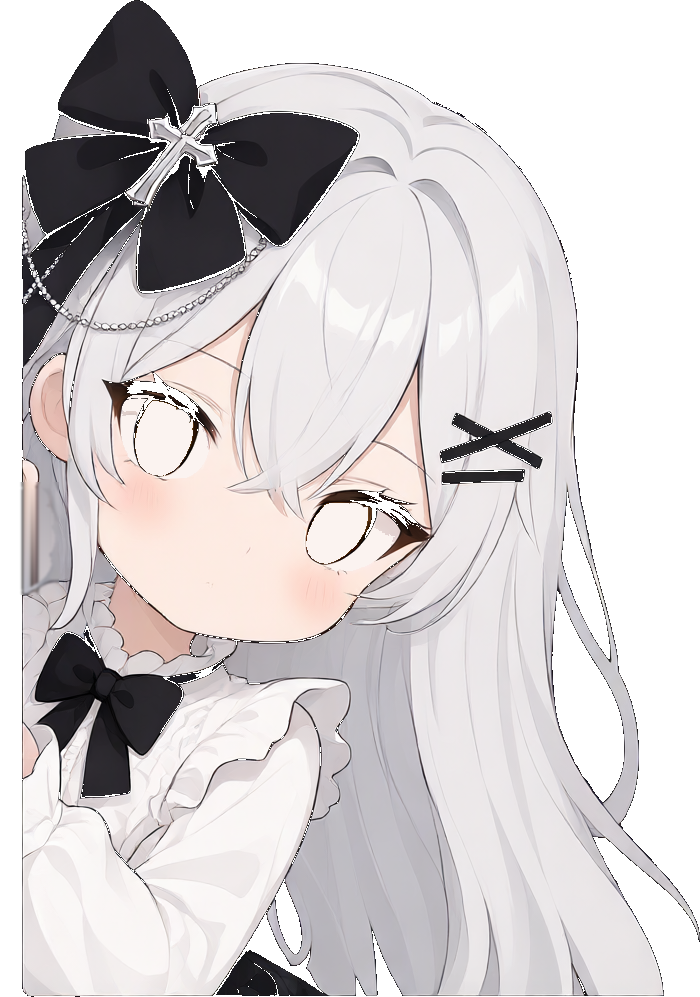
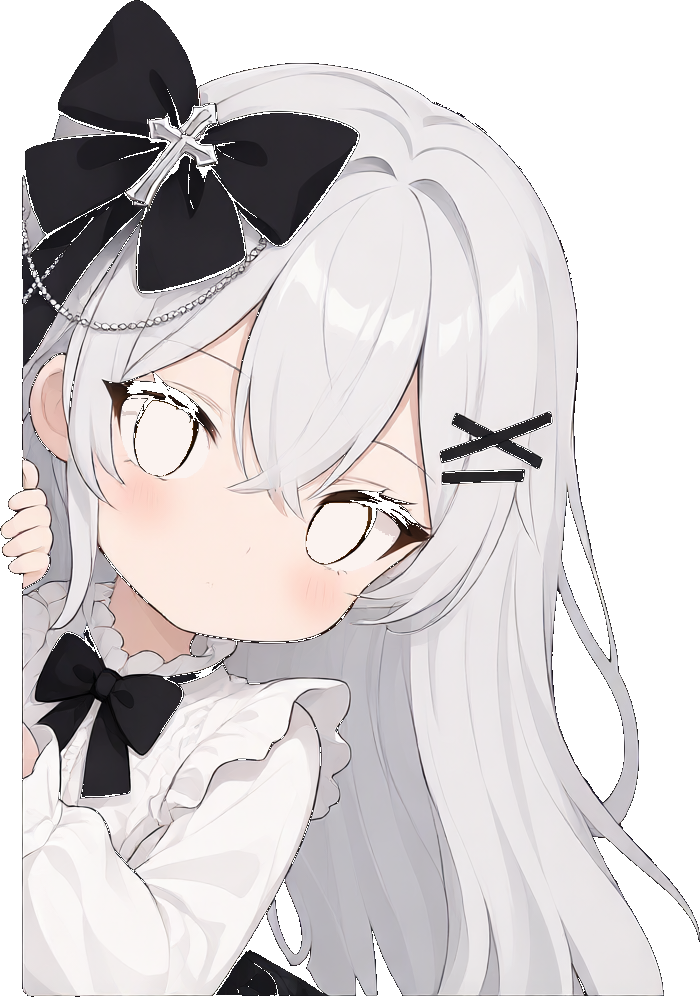
mascot v3: socket-masked iris, static body, bubble-only greeting
- Iris layers now sit inside a fixed wrapper masked by per-eye socket masks
  (oc_socket_l/r.png, generated from the aperture alpha), so the pupil can
  never slide over the lash line - it gets clipped by the eye socket.
- Body no longer tilts/rotates with the cursor; only the irises track it.
- Drop the waving hand + wrist overlay entirely: greeting is now just the
  speech bubble; the base keeps the original crisp gripping fingers.

Changed region(s): [[0.0, 0.4664, 0.09, 0.6219]]

diff --git a/components/FloatingMascot.tsx b/components/FloatingMascot.tsx
@@ -4,13 +4,13 @@ import { useEffect, useState, useRef, useCallback } from "react";
 import Image from "next/image";
 
 /**
- * 屏幕左侧随动 Q 版看板娘（Web 2.5D 切件 Live2D 看板娘组件 v2）
+ * 屏幕左侧 Q 版看板娘（Web 2.5D 切件看板娘组件 v3）
  *
  * 层序（Z 从低到高）：
- *   base2(底图,眼孔填平眼白) < iris_l/r(整眼孔虹膜件,随光标位移) < hand2(搭框手)
- *   < wristoverlay(腕部发丝盖片) < eyeoverlay(睁眼睫毛环) < lid_l/r(闭眼件,仅眨眼时显示)
+ *   base2(底图,眼孔填平眼白+完整手指) < iris_l/r(整眼孔虹膜件,随光标位移,
+ *   经眼孔遮罩裁切永远出不了眼眶) < eyeoverlay(睁眼睫毛环) < lid_l/r(闭眼件,仅眨眼时显示)
  * 眨眼 = 隐藏 overlay+iris、显示 lids（qwen-image-2.1 重绘的自然闭眼件）。
- * 招手 = 手部件绕腕枢轴 (94%,50%) 旋转，wristoverlay 盖住关节防断肢。
+ * 立绘本体不随动，仅眼睛注视光标；点击只弹台词气泡（不摆手）。
  */
 
 interface MascotProps {
@@ -23,20 +23,22 @@ interface MascotProps {
 const GEO = {
   irisL: { left: "17.00%", top: "40.02%", width: "13.00%", height: "8.22%" },
   irisR: { left: "43.43%", top: "50.25%", width: "13.14%", height: "7.22%" },
-  hand: { left: "0%", top: "48.85%", width: "7.71%", height: "10.33%" },
-  wrist: { left: "0%", top: "51.86%", width: "9.86%", height: "9.53%" },
   overlay: { left: "16.43%", top: "39.62%", width: "40.86%", height: "18.25%" },
   lidL: { left: "13.86%", top: "34.80%", width: "20.86%", height: "13.94%" },
   lidR: { left: "41.71%", top: "44.33%", width: "21.00%", height: "17.35%" },
 };
 
+/* 眼孔遮罩：虹膜位移后被裁切在眼眶内，绝不越界压到睫毛线 */
+const SOCKET_MASK = {
+  l: "url(/oc_socket_l.png)",
+  r: "url(/oc_socket_r.png)",
+};
+
 export default function FloatingMascot({ quotes, toggleShow, toggleHide }: MascotProps) {
   const [visible, setVisible] = useState(true);
   const [quote, setQuote] = useState<string | null>(null);
-  const [waving, setWaving] = useState(false);
   const [blinking, setBlinking] = useState(false);
   const [eyeOffset, setEyeOffset] = useState({ x: 0, y: 0 });
-  const [tilt, setTilt] = useState(0);
   const quoteTimerRef = useRef<NodeJS.Timeout | null>(null);
   const mascotRef = useRef<HTMLDivElement | null>(null);
 
@@ -61,7 +63,7 @@ export default function FloatingMascot({ quotes, toggleShow, toggleHide }: Masco
     }
   };
 
-  // 1. 眼睛注视光标跟踪（虹膜在眼眶内位移，overlay 睫毛环在上层裁边）
+  // 1. 眼睛注视光标跟踪（仅虹膜位移；立绘本体保持静止）
   useEffect(() => {
     if (!visible) return;
 
@@ -83,10 +85,6 @@ export default function FloatingMascot({ quotes, toggleShow, toggleHide }: Masco
         x: Math.cos(angle) * maxOffset * factor,
         y: Math.sin(angle) * maxOffset * factor,
       });
-
-      const windowH = window.innerHeight;
-      const normY = (e.clientY / windowH) * 2 - 1;
-      setTilt(normY * 2.2);
     };
 
     window.addEventListener("mousemove", handleMouseMove, { passive: true });
@@ -108,11 +106,8 @@ export default function FloatingMascot({ quotes, toggleShow, toggleHide }: Masco
     return () => clearTimeout(blinkTimer);
   }, [visible]);
 
-  // 3. 点击触发互动（招手 + 气泡台词）
+  // 3. 点击触发互动（只弹台词气泡，不摆手）
   const handleClick = useCallback(() => {
-    setWaving(true);
-    setTimeout(() => setWaving(false), 1400);
-
     if (quotes && quotes.length > 0) {
       const randomQuote = quotes[Math.floor(Math.random() * quotes.length)];
       setQuote(randomQuote);
@@ -145,18 +140,6 @@ export default function FloatingMascot({ quotes, toggleShow, toggleHide }: Masco
           0%, 100% { transform: translateY(0); }
           50% { transform: translateY(-3px); }
         }
-        @keyframes hand-wave {
-          0% { transform: rotate(0deg); }
-          18% { transform: rotate(-24deg) translateY(-4px) translateX(2px); }
-          36% { transform: rotate(14deg) translateY(-2px); }
-          54% { transform: rotate(-20deg) translateY(-4px) translateX(2px); }
-          72% { transform: rotate(10deg) translateY(-1px); }
-          90% { transform: rotate(-10deg); }
-          100% { transform: rotate(0deg); }
-        }
-        .mascot-waving-hand {
-          animation: hand-wave 1.35s cubic-bezier(0.36, 0.07, 0.19, 0.97) forwards;
-        }
       `}</style>
 
       {/* 折叠收起时：贴在屏幕左侧的微型胶囊唤醒按钮 */}
@@ -178,11 +161,7 @@ export default function FloatingMascot({ quotes, toggleShow, toggleHide }: Masco
       {visible && (
         <div
           ref={mascotRef}
-          className="fixed left-0 bottom-12 z-40 select-none transition-transform duration-300 ease-out"
-          style={{
-            transform: `rotate(${tilt}deg)`,
-            transformOrigin: "left center",
-          }}
+          className="fixed left-0 bottom-12 z-40 select-none"
         >
           {/* 对话气泡 */}
           {quote && (
@@ -225,41 +204,50 @@ export default function FloatingMascot({ quotes, toggleShow, toggleHide }: Masco
                 />
               </div>
 
-              {/* Z2 虹膜件：随光标位移（眨眼时隐藏） */}
+              {/* Z2 虹膜件：外层固定+眼孔遮罩裁切，内层随光标位移（眨眼时隐藏） */}
               <div
                 className="absolute z-20 pointer-events-none"
                 style={{
                   ...GEO.irisL,
                   opacity: openEyeOpacity,
-                  transform: `translate(${eyeOffset.x}px, ${eyeOffset.y}px)`,
-                  transition: "transform 0.12s ease-out, opacity 0.07s linear",
+                  WebkitMaskImage: SOCKET_MASK.l,
+                  maskImage: SOCKET_MASK.l,
+                  WebkitMaskSize: "100% 100%",
+                  maskSize: "100% 100%",
+                  transition: "opacity 0.07s linear",
                 }}
               >
-                <Image src="/oc_iris_l.png" alt="" fill className="object-contain" />
+                <div
+                  className="absolute inset-0"
+                  style={{
+                    transform: `translate(${eyeOffset.x}px, ${eyeOffset.y}px)`,
+                    transition: "transform 0.12s ease-out",
+                  }}
+                >
+                  <Image src="/oc_iris_l.png" alt="" fill className="object-contain" />
+                </div>
               </div>
               <div
                 className="absolute z-20 pointer-events-none"
                 style={{
                   ...GEO.irisR,
                   opacity: openEyeOpacity,
-                  transform: `translate(${eyeOffset.x}px, ${eyeOffset.y}px)`,
-                  transition: "transform 0.12s ease-out, opacity 0.07s linear",
+                  WebkitMaskImage: SOCKET_MASK.r,
+                  maskImage: SOCKET_MASK.r,
+                  WebkitMaskSize: "100% 100%",
+                  maskSize: "100% 100%",
+                  transition: "opacity 0.07s linear",
                 }}
               >
-                <Image src="/oc_iris_r.png" alt="" fill className="object-contain" />
-              </div>
-
-              {/* Z3 搭框手：点击绕腕枢轴招手 */}
-              <div
-                className={`absolute z-30 pointer-events-none ${waving ? "mascot-waving-hand" : ""}`}
-                style={{ ...GEO.hand, transformOrigin: "94% 50%" }}
-              >
-                <Image src="/oc_hand2.png" alt="Mascot hand" fill className="object-contain" />
-              </div>
-
-              {/* Z4 腕部发丝盖片：盖住手腕关节 */}
-              <div className="absolute z-40 pointer-events-none" style={GEO.wrist}>
-                <Image src="/oc_wristoverlay.png" alt="" fill className="object-contain" />
+                <div
+                  className="absolute inset-0"
+                  style={{
+                    transform: `translate(${eyeOffset.x}px, ${eyeOffset.y}px)`,
+                    transition: "transform 0.12s ease-out",
+                  }}
+                >
+                  <Image src="/oc_iris_r.png" alt="" fill className="object-contain" />
+                </div>
               </div>
 
               {/* Z5 睁眼睫毛环（眨眼时隐藏） */}
